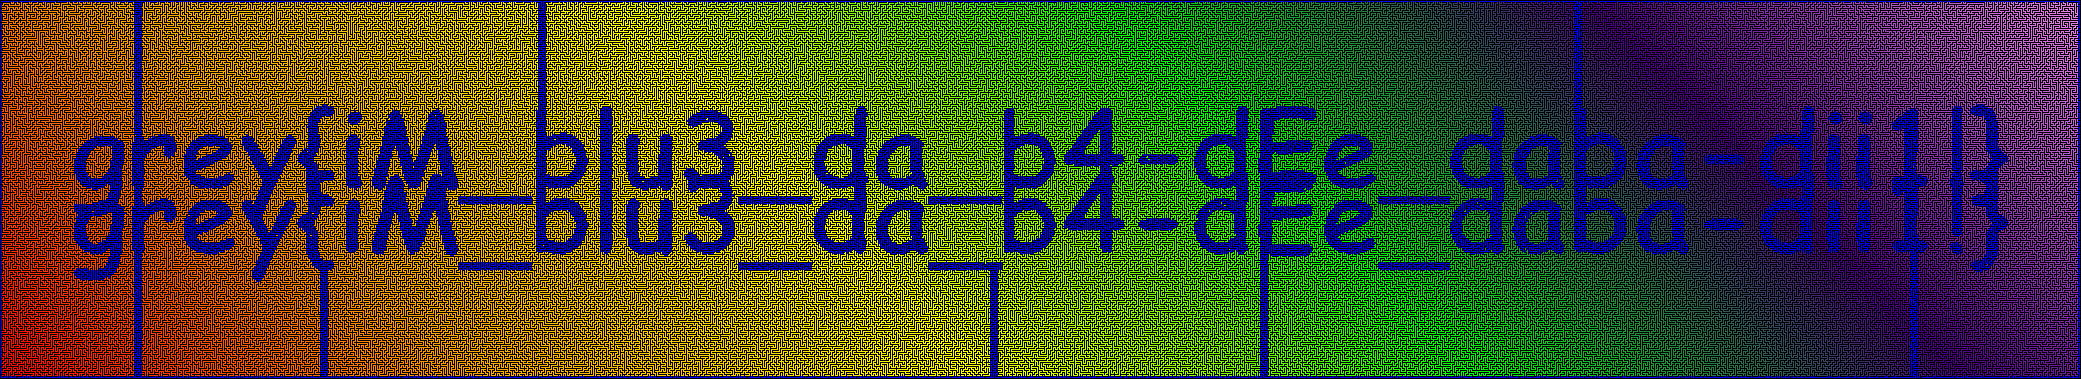
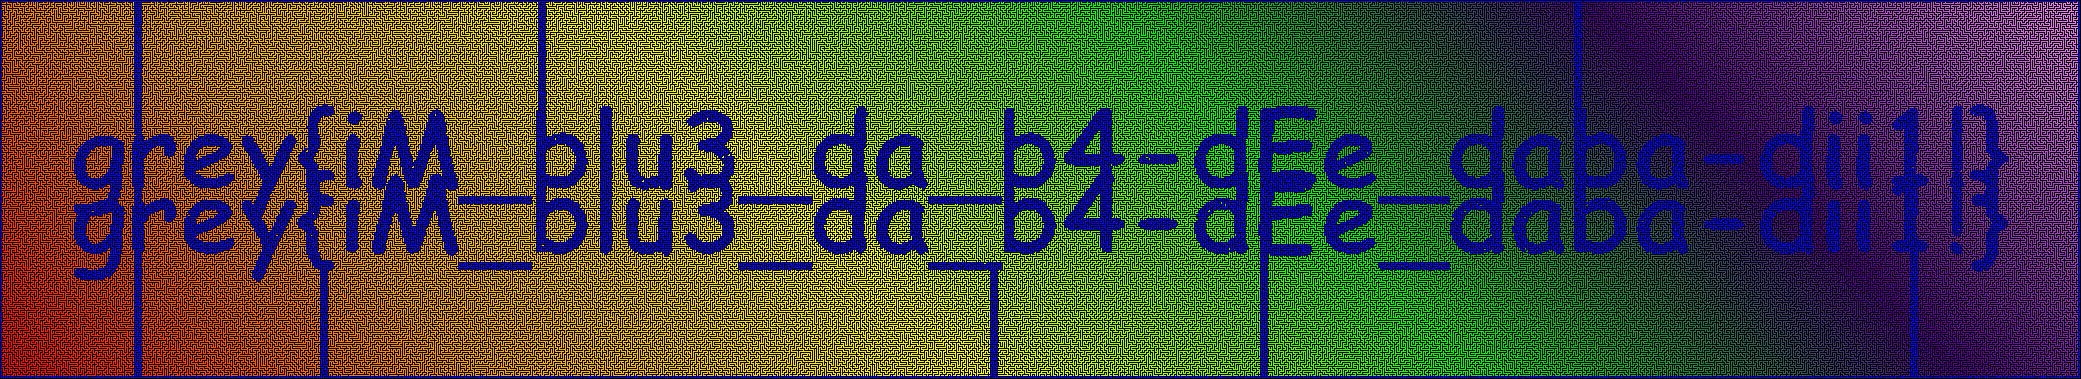
Fix bugs add UI

Changed region(s): [[0.0, 0.0, 0.9995, 1.0]]

diff --git a/frontend/src/App.tsx b/frontend/src/App.tsx
@@ -65,14 +65,30 @@ function App() {
                     style={{
                       width: '100%',
                       height: '100%',
-                      backgroundColor: color || 'transparent',
+                      backgroundColor: color.length ? color : 'transparent',
                       boxSizing: 'border-box',
                       borderTop: wallTop ? borderStyle : 'none',
                       borderBottom: wallBottom ? borderStyle : 'none',
                       borderLeft: wallLeft ? borderStyle : 'none',
                       borderRight: wallRight ? borderStyle : 'none',
+                      position: 'relative',
                     }}
-                  />
+                  >
+                    {(rowIndex === Math.floor(colors.length / 2)) && (colIndex === Math.floor(colors.length / 2)) && (
+                      <img
+                        src="/greycat-kart.png"
+                        alt="Player"
+                        style={{
+                          position: 'absolute',
+                          width: '100%',
+                          height: '100%',
+                          objectFit: 'contain',
+                          top: '0',
+                          left: '0',
+                        }}
+                      />
+                    )}
+                  </div>
                 );
               })
             )}</div>

diff --git a/frontend/src/App.css b/frontend/src/App.css
@@ -17,8 +17,8 @@
   flex-direction: row;
   align-items: center;
   justify-content: center;
-  width: 100%;
-  height: 100%;
+  width: 95%;
+  height: 95%;
 }
 
 .side-panel {
@@ -27,9 +27,17 @@
 
 .maze-container {
   flex: 1;
+  display: flex;
+  justify-content: center;
+  align-items: center;
+  height: 100%;
+  padding: 50px 20px;
 }
 
 .maze-container>div {
+  flex: 1;
+  max-width: 100%;
+  max-height: 100%;
   aspect-ratio: 1 / 1;
   display: grid;
   border: 5px solid black;
